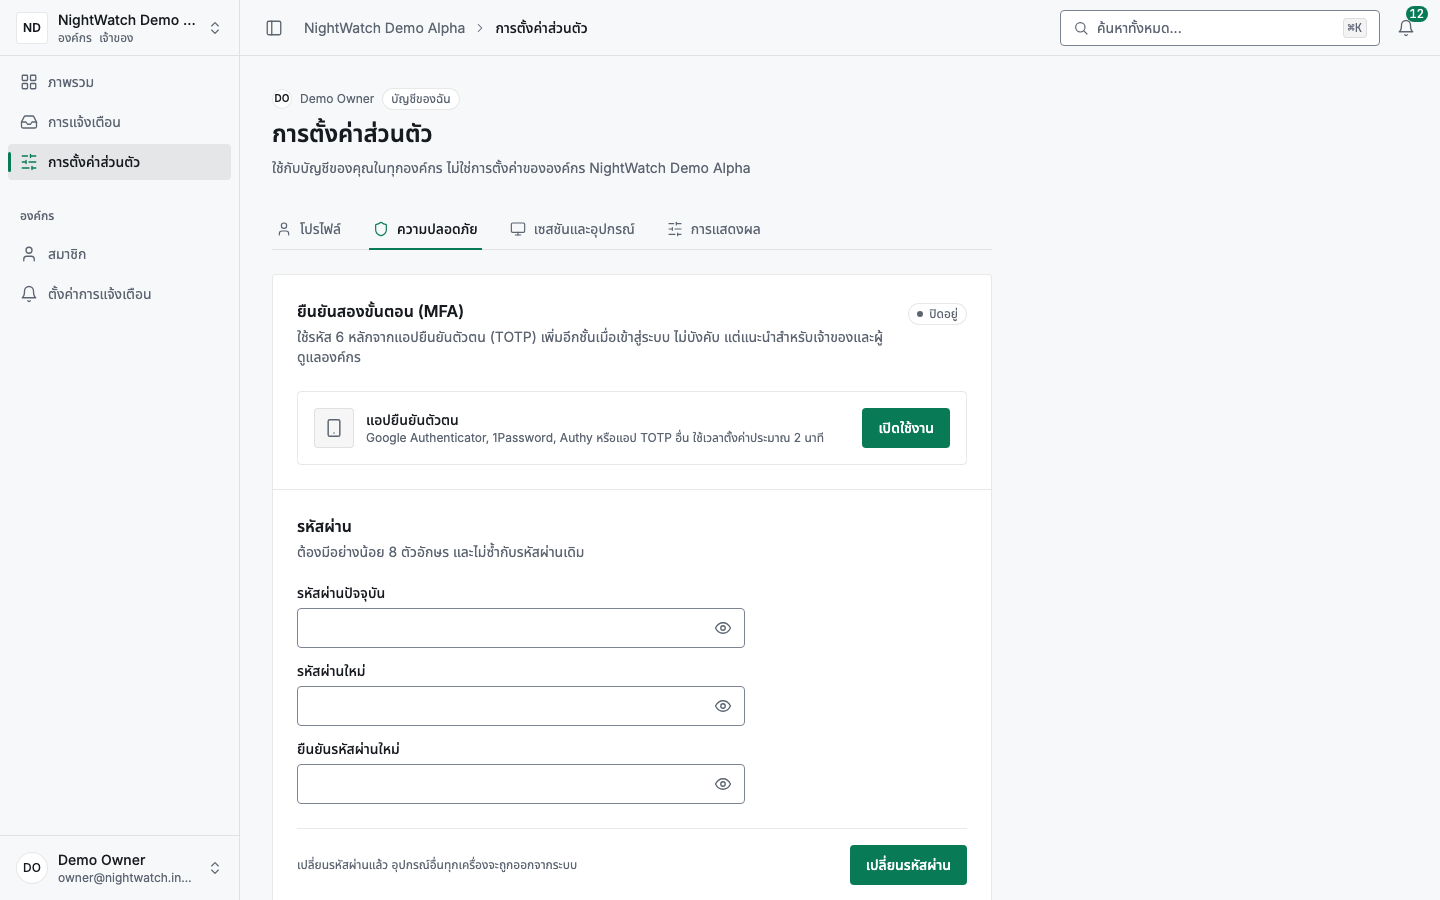
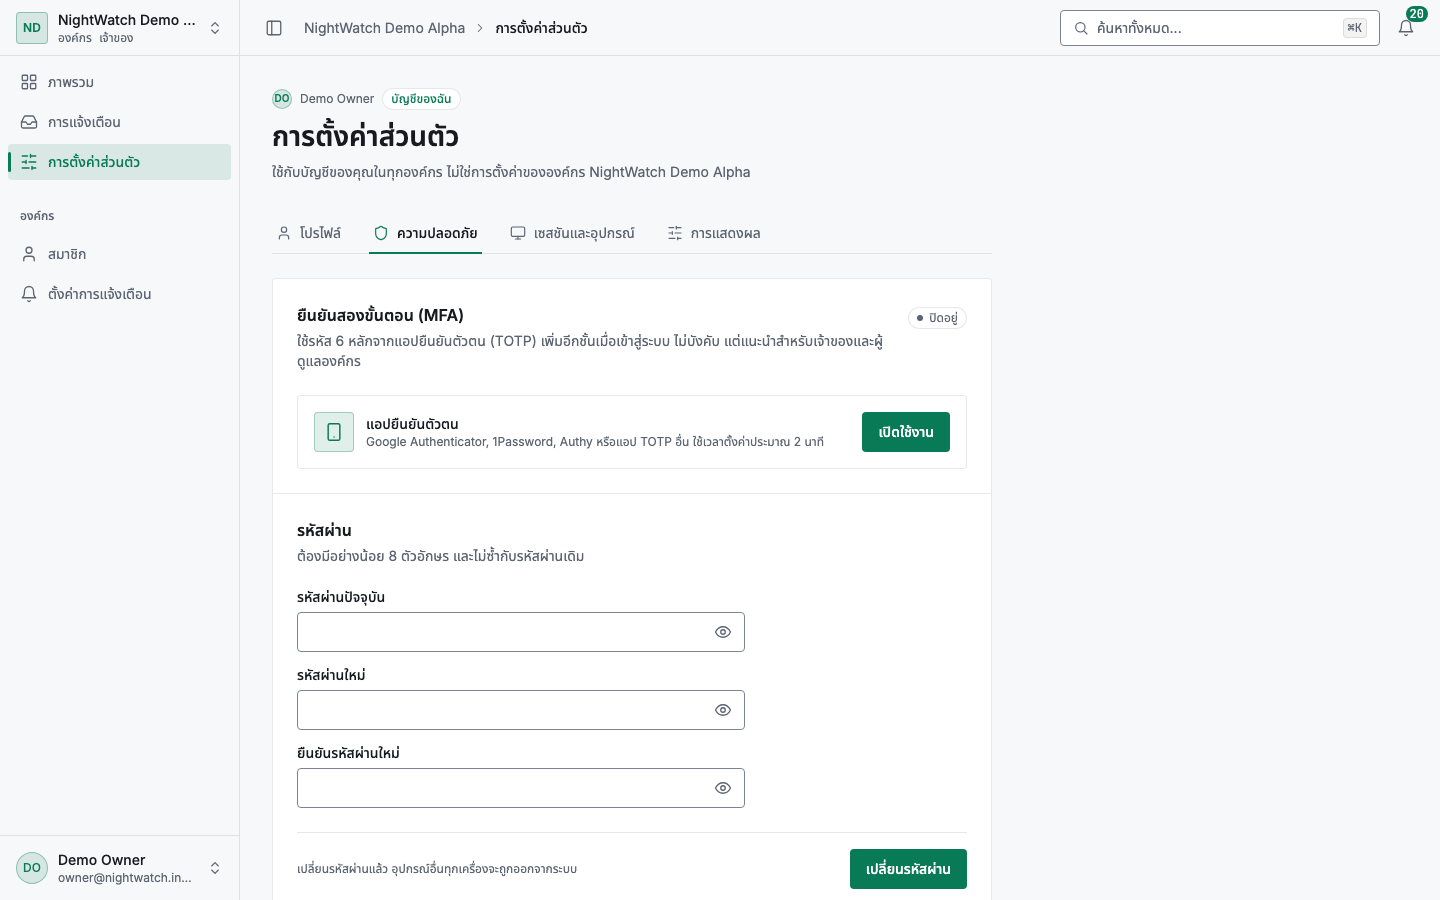
feat(web): darker surfaces with bright headings and Primary accents in dark
The dark theme still read as dull after #42: surfaces and chrome sat a
few percent apart and only the primary button carried light. Following
CSS-injected previews, the surfaces stay dark (Surface #121316 → #0e0f12
against the #0b0c0e canvas; control boundary 3.2:1, text 15:1) and the
brightness comes from type and accent instead. A Heading token (dark
#ffffff) lifts page and card titles, the page title grows to 28/36,
identifiers and counts in monospace use Text rather than Secondary text,
and the Primary tint marks the active nav row and rail button, the
organization, account and scope marks, every IconTile and the scope-row
pill. The canvas grain drops from 6 % to 4 %. Tokens and the active-row
rule are recorded in the design and shell docs; after-captures refreshed.

Closes #43

Verified: web typecheck, lint, 282 unit tests, e2e settings.spec.ts 6/6,
Chromium captures in both themes at 1440×900.

Claude-Session: https://claude.ai/code/session_01VT566DP8MbpBTDES63sPCN

diff --git a/apps/web/src/index.css b/apps/web/src/index.css
@@ -23,6 +23,7 @@
   --background: #f7f8fa;
   --surface: #ffffff;
   --foreground: #171a1f;
+  --heading: #171a1f;
   --foreground-secondary: #5b6470;
   --primary: #087a55;
   --on-primary: #ffffff;
@@ -35,8 +36,9 @@
   :root {
     color-scheme: dark;
     --background: #0b0c0e;
-    --surface: #121316;
+    --surface: #0e0f12;
     --foreground: #f3f4f6;
+    --heading: #ffffff;
     --foreground-secondary: #adb5bf;
     --primary: #3ecf8e;
     --on-primary: #11251c;
@@ -54,6 +56,7 @@
   --background: #f7f8fa;
   --surface: #ffffff;
   --foreground: #171a1f;
+  --heading: #171a1f;
   --foreground-secondary: #5b6470;
   --primary: #087a55;
   --on-primary: #ffffff;
@@ -65,8 +68,9 @@
 :root[data-theme="dark"] {
   color-scheme: dark;
   --background: #0b0c0e;
-  --surface: #121316;
+  --surface: #0e0f12;
   --foreground: #f3f4f6;
+  --heading: #ffffff;
   --foreground-secondary: #adb5bf;
   --primary: #3ecf8e;
   --on-primary: #11251c;
@@ -79,6 +83,7 @@
   --color-background: var(--background);
   --color-surface: var(--surface);
   --color-foreground: var(--foreground);
+  --color-heading: var(--heading);
   --color-foreground-secondary: var(--foreground-secondary);
   --color-primary: var(--primary);
   --color-on-primary: var(--on-primary);
@@ -174,10 +179,10 @@ body {
 }
 
 /* Canvas grain for data-dense views (docs/design-system.md, Layout): 1 px
-   dots at Text 6% on a 24 px grid, on Canvas only, never on Surface. */
+   dots at Text 4% on a 24 px grid, on Canvas only, never on Surface. */
 @utility canvas-grain {
   background-image: radial-gradient(
-    color-mix(in oklab, var(--color-foreground) 6%, transparent) 1px,
+    color-mix(in oklab, var(--color-foreground) 4%, transparent) 1px,
     transparent 1px
   );
   background-size: 24px 24px;

diff --git a/apps/web/src/components/shell/Page.tsx b/apps/web/src/components/shell/Page.tsx
@@ -42,7 +42,7 @@ function ScopeMark({ name, shape }: { name: string; shape: "org" | "person" }) {
     <span
       aria-hidden="true"
       className={cn(
-        "inline-flex h-5 w-5 shrink-0 items-center justify-center border border-foreground/10 bg-surface text-[10px] font-semibold text-foreground",
+        "inline-flex h-5 w-5 shrink-0 items-center justify-center border border-primary/35 bg-primary/14 text-[10px] font-semibold text-primary",
         shape === "person" ? "rounded-full" : "rounded-[3px]",
       )}
     >
@@ -83,13 +83,13 @@ export function PageHeader({
             )}
             <span className="truncate">{scope.label}</span>
             {scope.tag === undefined ? null : (
-              <StatusPill tone="muted">{scope.tag}</StatusPill>
+              <StatusPill tone="primary">{scope.tag}</StatusPill>
             )}
           </p>
         )}
         <h1
           className={cn(
-            "mt-2 text-2xl leading-8 font-semibold",
+            "mt-2 text-[28px] leading-9 font-semibold text-heading",
             titleClassName,
           )}
           ref={titleRef}
@@ -98,7 +98,7 @@ export function PageHeader({
           {title}
         </h1>
         {status === undefined ? null : (
-          <p className="mt-1.5 flex flex-wrap gap-x-4 gap-y-1 text-xs text-foreground-secondary">
+          <p className="mt-1.5 flex flex-wrap gap-x-4 gap-y-1 text-xs text-foreground-secondary [&_.font-mono]:text-foreground">
             {status}
           </p>
         )}

diff --git a/apps/web/src/components/shell/Sidebar.tsx b/apps/web/src/components/shell/Sidebar.tsx
@@ -103,7 +103,7 @@ function NavRow({
         onClick={onNavigate}
         className={`relative mx-auto flex h-9 w-9 items-center justify-center rounded-md transition-colors duration-100 ${
           active
-            ? "bg-foreground/8 text-primary before:absolute before:inset-y-2 before:left-0 before:w-[3px] before:rounded-full before:bg-primary"
+            ? "bg-primary/12 text-primary before:absolute before:inset-y-2 before:left-0 before:w-[3px] before:rounded-full before:bg-primary"
             : "text-foreground-secondary hover:bg-foreground/5 hover:text-foreground"
         }`}
       >
@@ -117,7 +117,7 @@ function NavRow({
       onClick={onNavigate}
       className={`relative flex items-center gap-2.5 rounded-md px-3 py-2 text-sm transition-colors duration-100 ${
         active
-          ? "bg-foreground/8 font-medium text-foreground before:absolute before:inset-y-2 before:left-0 before:w-[3px] before:rounded-full before:bg-primary"
+          ? "bg-primary/12 font-medium text-primary before:absolute before:inset-y-2 before:left-0 before:w-[3px] before:rounded-full before:bg-primary"
           : "text-foreground-secondary hover:bg-foreground/5 hover:text-foreground"
       }`}
     >

diff --git a/apps/web/src/components/ui/icon-tile.tsx b/apps/web/src/components/ui/icon-tile.tsx
@@ -2,24 +2,21 @@ import type { ComponentProps } from "react";
 
 import { cn } from "@/lib/utils";
 
-// Decorative icon square on the inset surface; the row's text carries the meaning.
+// Decorative icon square in the Primary tint; the row's text carries the meaning.
 function IconTile({
   className,
   size = 40,
-  tone = "neutral",
   ...props
 }: ComponentProps<"span"> & {
   size?: 32 | 40;
-  tone?: "neutral" | "positive";
 }) {
   return (
     <span
       aria-hidden="true"
       data-slot="icon-tile"
       className={cn(
-        "surface-inset inline-flex shrink-0 items-center justify-center rounded-md border border-foreground/10",
+        "inline-flex shrink-0 items-center justify-center rounded-md border border-primary/30 bg-primary/12 text-primary",
         size === 32 ? "h-8 w-8" : "h-10 w-10",
-        tone === "positive" ? "text-primary" : "text-foreground-secondary",
         className,
       )}
       {...props}

diff --git a/apps/web/src/components/shell/AccountMenu.tsx b/apps/web/src/components/shell/AccountMenu.tsx
@@ -148,7 +148,7 @@ function Avatar({ name, size = "md" }: { name: string; size?: "md" | "lg" }) {
   return (
     <span
       aria-hidden="true"
-      className={`inline-flex flex-shrink-0 items-center justify-center rounded-full border border-foreground/10 bg-surface font-medium text-foreground ${
+      className={`inline-flex flex-shrink-0 items-center justify-center rounded-full border border-primary/35 bg-primary/14 font-medium text-primary ${
         size === "lg" ? "h-10 w-10 text-sm" : "h-8 w-8 text-xs"
       }`}
     >

diff --git a/apps/web/src/components/shell/OrgSwitcher.tsx b/apps/web/src/components/shell/OrgSwitcher.tsx
@@ -159,7 +159,7 @@ function OrgMark({ name }: { name: string }) {
   return (
     <span
       aria-hidden="true"
-      className="inline-flex h-8 w-8 flex-shrink-0 items-center justify-center rounded-md border border-foreground/10 bg-surface text-xs font-semibold text-foreground"
+      className="inline-flex h-8 w-8 flex-shrink-0 items-center justify-center rounded-md border border-primary/35 bg-primary/14 text-xs font-semibold text-primary"
     >
       {initialsOf(name)}
     </span>

diff --git a/apps/web/src/pages/settings/SessionsPage.tsx b/apps/web/src/pages/settings/SessionsPage.tsx
@@ -196,7 +196,9 @@ export function SessionsPage() {
                       row.ipAddress.trim() === "" ? (
                         "ไม่ทราบ IP"
                       ) : (
-                        <span className="font-mono">{row.ipAddress}</span>
+                        <span className="font-mono text-foreground">
+                          {row.ipAddress}
+                        </span>
                       )}
                     </span>
                     <span>

diff --git a/apps/web/src/pages/settings/MfaCard.tsx b/apps/web/src/pages/settings/MfaCard.tsx
@@ -324,7 +324,7 @@ export function MfaCard({
           <div className="flex flex-col rounded-md border border-foreground/10">
             <div className="flex items-center justify-between gap-3 border-b border-foreground/10 p-4">
               <div className="flex min-w-0 items-center gap-3">
-                <IconTile tone="positive">
+                <IconTile>
                   <SmartphoneIcon size={20} />
                 </IconTile>
                 <div className="min-w-0">

diff --git a/apps/web/src/pages/NotificationsPage.tsx b/apps/web/src/pages/NotificationsPage.tsx
@@ -150,7 +150,7 @@ export function NotificationRows({
                 <time
                   dateTime={item.occurredAt}
                   title={itemTime(item.occurredAt, preferences)}
-                  className="font-mono text-xs"
+                  className="font-mono text-xs text-foreground"
                 >
                   {relativeTime(item.occurredAt, preferences)}
                 </time>

diff --git a/apps/web/src/components/ui/card.tsx b/apps/web/src/components/ui/card.tsx
@@ -55,7 +55,7 @@ function CardHeader({
       )}
     >
       <div className="min-w-0">
-        <h2 id={id} className="text-base font-semibold">
+        <h2 id={id} className="text-base font-semibold text-heading">
           {title}
         </h2>
         {description === undefined ? null : (

diff --git a/docs/ref/shell-structure.md b/docs/ref/shell-structure.md
@@ -35,7 +35,7 @@ One navigation definition feeds the sidebar, the command palette and the setting
 - A path may carry an organization parameter resolved against the active organization; a leaf that needs one is hidden when there is none.
 - Palette entries are searchable in ⌘K under the leaf's label and form the leaf's tab strip, but are never sidebar rows. The leaf is active on every one of its tabs.
 - Only real destinations are listed; no placeholder routes.
-- Active row: Text at low opacity as fill, a 3 px Primary bar on the left edge (also on the rail button), medium weight, Primary icon, `aria-current="page"`. The sidebar width changes over 150 ms; hover fills over 100 ms.
+- Active row: Primary at 12% as fill with Primary text, a 3 px Primary bar on the left edge (also on the rail button), medium weight, `aria-current="page"`. The sidebar width changes over 150 ms; hover fills over 100 ms.
 
 Example (NightWatch): ภาพรวม; การแจ้งเตือน; การตั้งค่าส่วนตัว with tabs โปรไฟล์, ความปลอดภัย, เซสชันและอุปกรณ์, การแสดงผล; group องค์กร with สมาชิก and ตั้งค่าการแจ้งเตือน (owner, admin).
 

diff --git a/docs/design-system.md b/docs/design-system.md
@@ -6,13 +6,14 @@ Calm, precise security operations: readable evidence, clear scope, obvious next 
 
 ## Tokens
 
-Nine semantic roles, the same in both themes. Every color in the product comes from this table.
+Ten semantic roles, the same in both themes. Every color in the product comes from this table.
 
 | Role             | Light     | Dark      | Use                                          |
 | ---------------- | --------- | --------- | -------------------------------------------- |
 | Canvas           | `#f7f8fa` | `#0b0c0e` | Page background                              |
-| Surface          | `#ffffff` | `#121316` | Cards, panels, overlays, controls            |
+| Surface          | `#ffffff` | `#0e0f12` | Cards, panels, overlays, controls            |
 | Text             | `#171a1f` | `#f3f4f6` | Body text, icons                             |
+| Heading          | `#171a1f` | `#ffffff` | Page and card titles                         |
 | Secondary text   | `#5b6470` | `#adb5bf` | Descriptions, eyebrows, timestamps           |
 | Control boundary | `#7b8490` | `#5b6470` | Input and secondary-button borders           |
 | Primary          | `#087a55` | `#3ecf8e` | Primary action fill, focus ring, active icon |
